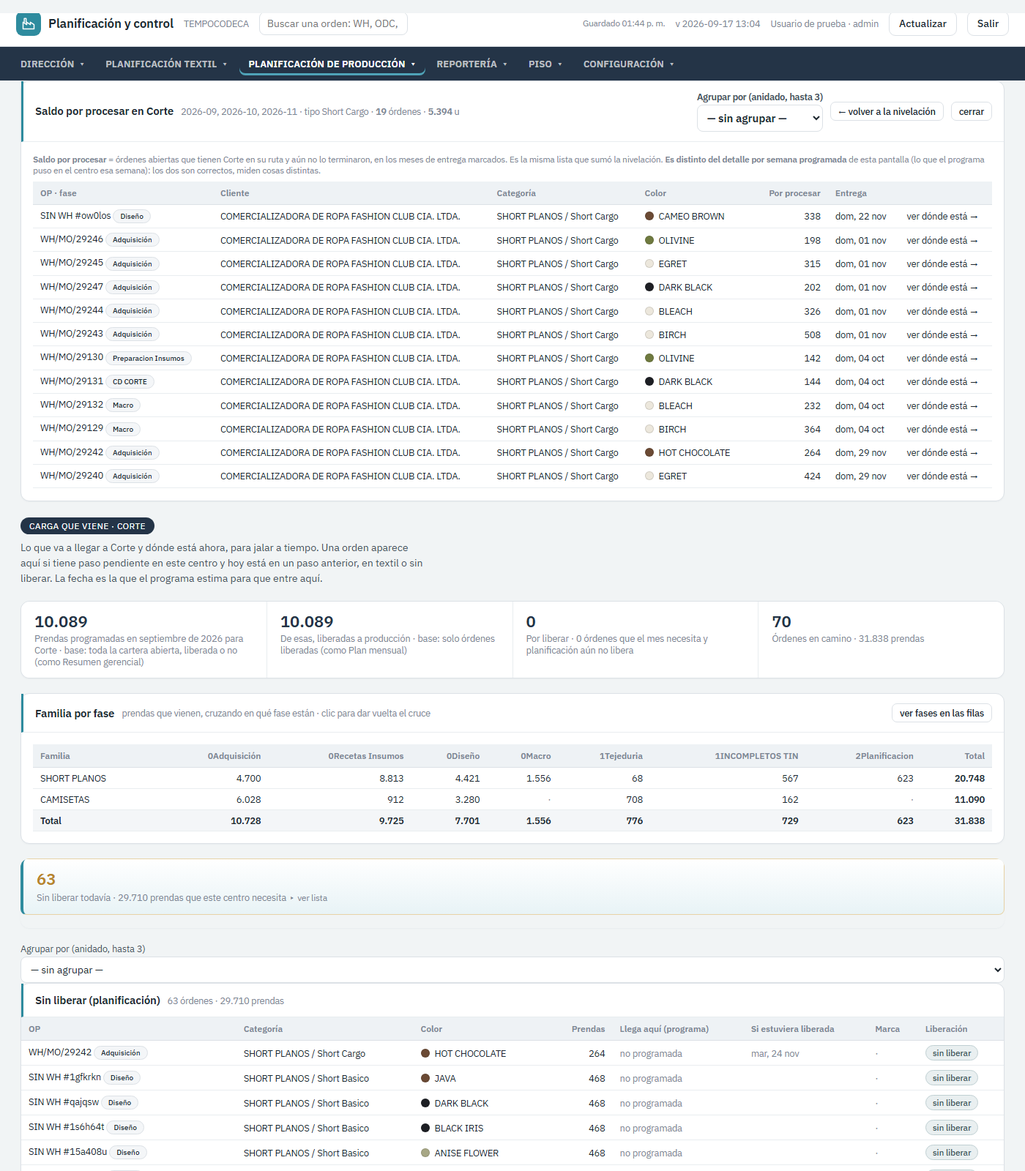
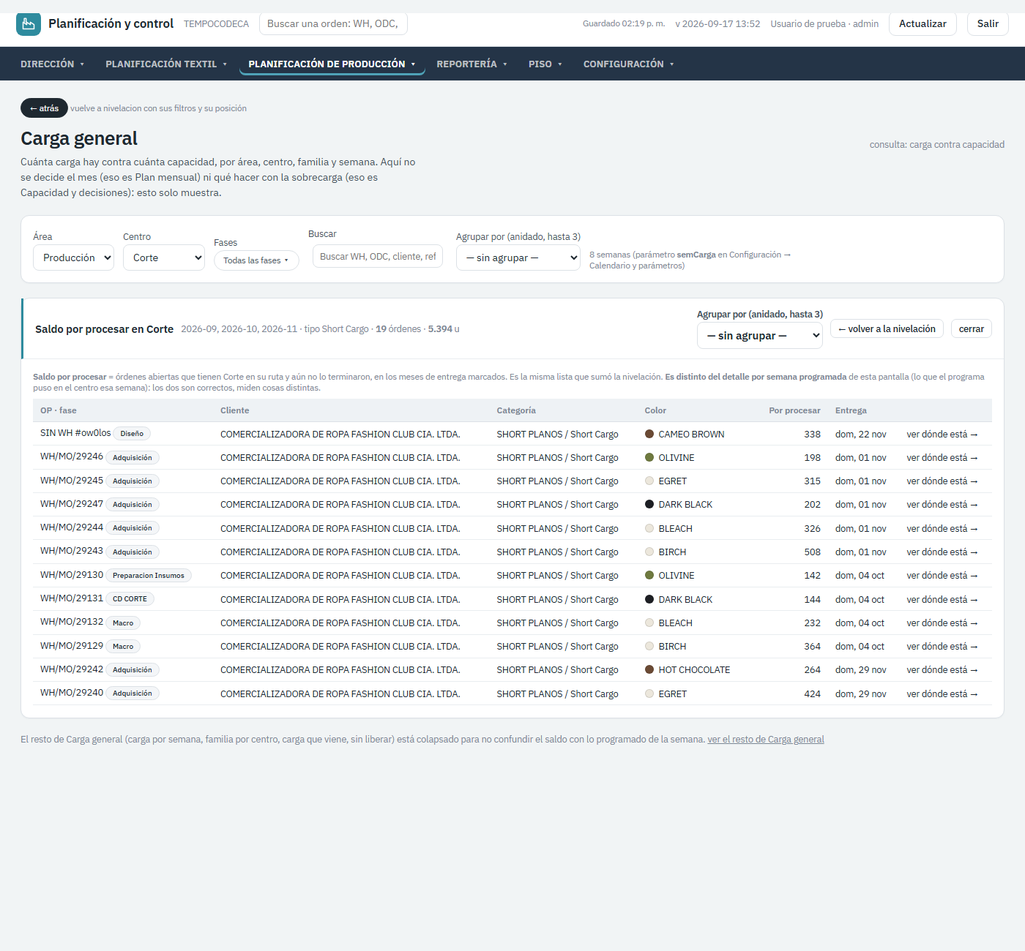
Nivelación · decisiones 17-sep: solo el saldo al llegar a Carga general, Maquila por fase, por días sin capacidad, todas las áreas conectadas
- Carga general desde la nivelación muestra solo «Saldo por procesar en <área>» + «← volver»; el resto colapsado con
  «ver el resto de Carga general».
- PROC_NIVEL gana Maquila por fase (columna «nivelación» de la tabla 1); recursoFijo ya no define el saldo. Sin fases
  marcadas = «sin fases marcadas · dato faltante».
- Centros «por días» (centroPorDias): saldo y tabla, sin cuadrito, y qué haría falta. Todas las demás áreas con cuadrito.
- Probado que al marcar fases de Tela y Maquila los recuadros calculan. SUPABASE_BORDADO_UNICO_PASO.sql (solo lectura).
Harness 2.351 checks, 0 errores.

diff --git a/index.html b/index.html
@@ -706,7 +706,7 @@ async function _save(){
 }
 
 /* ---------- versión cargada vs publicada: nunca mirar números de una copia vieja sin saberlo ---------- */
-const APP_BUILD='2026-09-17 13:52';
+const APP_BUILD='2026-09-17 14:21';
 function verBotonesAdmin(){const ok=puede('config');['btn-respaldo','btn-restaurar'].forEach(id=>{const b=document.getElementById(id);if(b)b.style.display=ok?'':'none'})}
 function verVersion(){const e=document.getElementById('version');if(e)e.textContent='v '+APP_BUILD}
 async function revisarVersion(){try{const r=await fetch(location.pathname+'?nocache='+Date.now(),{cache:'no-store'});if(!r.ok)return;const t=await r.text();const m=t.match(/APP_BUILD=\x27([^\x27]+)\x27/);if(!m)return;
@@ -5650,7 +5650,8 @@ const PROC_NIVEL=[
   {id:'tela',    n:'Tela por entregar', porFase:true,  centro:null,      area:'tej', unidad:'unidades'},
   {id:'corte',   n:'Corte',             porFase:false, centro:'corte',   area:'pro', unidad:'minutos'},
   {id:'confeccion',n:'Confección',      porFase:false, centro:'modulos', area:'pro', unidad:'minutos'},
-  {id:'empaque', n:'Empaque',           porFase:false, centro:'empaque', area:'pro', unidad:'minutos'}];
+  {id:'empaque', n:'Empaque',           porFase:false, centro:'empaque', area:'pro', unidad:'minutos'},
+  {id:'maquila', n:'Maquila (por fase)', porFase:true,  centro:null,      area:'pro', unidad:'unidades'}];   /* decisión 17-sep: la maquila se cuenta por fase; recursoFijo solo sirve para las decisiones */
 function procNivel(id){const p=PROC_NIVEL.find(p=>p.id===id);if(p)return p;
   /* cualquier centro de producción configurado también es un proceso de nivelación (por ruta) */
   const c=CE(id);return (c&&c.area==='pro')?{id,n:c.n,porFase:false,centro:id,area:'pro',unidad:'minutos'}:null}
@@ -6050,10 +6051,11 @@ function nivUIClaveFila(o,por){por=por||NIVUI.filaPor||'familia';if(por==='clien
 function nivUIFilaTxt(por){return (NIVUI_FILAS.find(x=>x[0]===(por||NIVUI.filaPor))||NIVUI_FILAS[0])[1].toLowerCase()}
 const NIVUI_LISTA='nivui';
 /* áreas con el cuadrito conectado; las demás esperan aprobación una por una */
-const NIVUI_CONECTADAS=['corte'];
+/* 17-sep: todas las áreas conectadas; las «por días» (sin capacidad) muestran saldo y órdenes, sin cuadrito */
+function nivUIConectada(a){return !!a&&!a.porDias}
 /* --- las áreas salen de los centros configurados (área pro) en orden de proceso, más Tela y Maquila --- */
 function nivUIAreas(){const pro=S.centros.filter(c=>c.area==='pro'&&c.activo!==false).map(c=>c.id).sort((a,b)=>ordenPaso(a)-ordenPaso(b));
-  return [{id:'tela',n:'Tela',tipo:'tela'}].concat(pro.map(c=>({id:c,n:nCen(c),tipo:'centro'}))).concat([{id:'maquila',n:'Maquila',tipo:'maquila'}])}
+  return [{id:'tela',n:'Tela',tipo:'tela',porFase:true}].concat(pro.map(c=>({id:c,n:nCen(c),tipo:'centro',porDias:centroPorDias(c)}))).concat([{id:'maquila',n:'Maquila',tipo:'maquila',porFase:true}])}
 function nivUIArea(id){return nivUIAreas().find(a=>a.id===id)||null}
 /* meses marcados: al menos uno; por defecto el mes en curso si tiene saldo, si no el primero con saldo */
 function nivUIMesesDisp(){return mesesNivDisp().filter(m=>m!=='sin fecha')}
@@ -6070,9 +6072,7 @@ function nivUIOpciones(k){const set=new Set();S.ordenes.filter(abiertaDe).forEac
 /* el saldo de un área con un filtro cualquiera: la nivelación (con sus filtros de pantalla) y Carga general (con la
    selección que llega por «ver órdenes») llaman EXACTAMENTE a esta función, así que listan lo mismo que se sumó */
 function saldoAreaNiv(areaId,meses,f){const a=nivUIArea(areaId);if(!a)return null;
-  if(a.tipo==='maquila'){const s=saldoProceso('modulos',meses,f);if(!s)return null;
-    const ords=S.ordenes.filter(o=>abiertaDe(o)&&(!f||f(o))&&(!meses||!meses.length||meses.includes(mesEntregaNiv(o)))&&((o.recursoFijo||{}).modulos==='maquila')&&(o.ruta||[]).some(x=>x.centro==='modulos')&&!pasoHecho(o,'modulos'));
-    return {proc:'maquila',ordenes:ords,unid:s.maquila,min:s.minMaquila,sinSAM:[],unidSinSAM:0,maquila:0,minMaquila:0}}
+  /* Tela y Maquila se cuentan POR FASE (columna «nivelación» de la tabla 1); los centros, por ruta */
   return saldoProceso(areaId,meses,f)}
 function nivUISaldo(areaId,meses){return saldoAreaNiv(areaId,meses,nivUIFiltro())}
 /* el filtro que arma una selección (cliente, familia, tipo de producto) — el mismo para las dos pantallas */
@@ -6090,7 +6090,8 @@ function nivUIVolver(){const v=CG.det&&CG.det.volver;if(v){NIVUI.meses=v.meses;N
 function nivUICapacidad(areaId){const a=nivUIArea(areaId);if(!a)return {cap:null,detalle:[],nota:'área desconocida'};
   if(a.tipo==='tela'){const t=capTelaReal();const plan=nivParam('telaPlan','');const cap=(plan===''||plan==null)?(t.suficiente?t.prom:null):+plan;
     return {cap,unidad:'u/día',detalle:[],nota:(plan===''||plan==null)?(t.suficiente?('promedio real de '+t.dias+' días hábiles ('+t.conDato+' con registro)'):('sin avance suficiente: '+t.conDato+' de '+t.dias+' días con registro')):('valor planificado en Configuración')}}
-  if(a.tipo==='maquila')return {cap:null,unidad:'min/día',detalle:[],nota:'la maquila no tiene capacidad propia: sus unidades se escriben en el área que la usa'};
+  if(a.tipo==='maquila')return {cap:null,unidad:'u/día',detalle:[],nota:'la maquila no tiene capacidad propia en la planta: dato faltante (se cuenta por fase; sus unidades entran como «Maquila» en el área que las recibe)'};
+  if(a.porDias)return {cap:null,unidad:'min/día',detalle:[],nota:'por días, sin capacidad: '+nCen(a.id)+' no consume capacidad (columna «Por días» de Configuración → Centros). Para nivelarlo harían falta: minutos por prenda en la hoja de operaciones o un mínimo estimado por categoría, y un recurso con personas, minutos y eficiencia (o una capacidad en unidades por día); hoy solo tiene un plazo de espera'};
   const d=hoy();const recs=S.recursos.filter(r=>r.activa&&r.centro===a.id&&r.id!=='maquila');
   const detalle=recs.map(r=>{const t=(S.turnos||[]).find(x=>x.rec===r.id&&x.d===d);const aj=ajusteRecDia(r,d);
     let pers=(t&&t.pers!=null)?t.pers:(r.pers||0),min=r.min||0,efic=r.efic||0;if(aj){if(aj.pers!=null&&!(t&&t.pers!=null))pers=+aj.pers;if(aj.min!=null)min=+aj.min;if(aj.efic!=null)efic=+aj.efic}
@@ -6111,7 +6112,7 @@ function nivUIDescartar(areaId){delete NIVUI.esc[areaId];render()}
 /* --- el cálculo del área: nivelar() del Paso 1 + las tres filas derivadas (adicionales, maquila escrita, total) --- */
 function nivUICalcular(areaId){const a=nivUIArea(areaId);if(!a)return null;const meses=nivUIMeses();
   const s=nivUISaldo(areaId,meses);const cap=nivUICapacidad(areaId);const e=nivUIEsc(areaId);const sam=samPonderado(s);
-  const enMin=a.tipo!=='tela';                           // tela se mide en unidades; planta en minutos
+  const enMin=!a.porFase;                                 // tela y maquila (por fase) se miden en unidades; la planta en minutos
   const saldo=s?(enMin?s.min:s.unid):null;
   /* maquila: lo escrito manda; si no hay nada escrito, la suma de órdenes marcadas a maquila (del saldo) */
   const maqU=(e.maquilaU!==''&&e.maquilaU!=null)?+e.maquilaU:(s&&s.maquila?s.maquila:0);
@@ -6123,16 +6124,16 @@ function nivUICalcular(areaId){const a=nivUIArea(areaId);if(!a)return null;const
   const total=(planta==null)?null:planta+(maqMin==null?0:maqMin);
   const deficit=(saldo==null||total==null)?null:Math.max(0,saldo-total);
   const sobra=(saldo==null||total==null)?null:Math.max(0,total-saldo);
-  const sinFases=a.tipo==='tela'&&!fasesDeProcNivel('tela').length;
+  const sinFases=!!(a.porFase&&!fasesDeProcNivel(a.id).length);
   const estado=(deficit==null||sinFases)?'faltante':(deficit>0?'deficit':((c.holgura!=null&&c.holgura<=prm('colchonDias',3))?'riesgo':'ok'));
   return {area:a,meses,saldo:s,sam,enMin,cap,esc:e,calc:c,adic,diasTot,plantaMin:planta,maqU,maqMin,totalMin:total,deficitMin:deficit,sobraMin:sobra,estado,
-    falta:c.falta.slice().concat(sam==null&&enMin&&s&&s.unid>0?['SAM ponderado (saldo sin minutos)']:[]).concat(a.tipo==='tela'&&!fasesDeProcNivel('tela').length?['fases de Tela en la tabla 1 (columna «nivelación» vacía: el saldo de tela no se puede contar)']:[]),
-    sinFasesTela:a.tipo==='tela'&&!fasesDeProcNivel('tela').length}}
+    falta:c.falta.slice().concat(sam==null&&enMin&&s&&s.unid>0?['SAM ponderado (saldo sin minutos)']:[]).concat(a.porFase&&!fasesDeProcNivel(a.id).length?['fases de '+a.n+' en la tabla 1 (columna «nivelación» vacía: el saldo no se puede contar)']:[]),
+    sinFasesTela:!!(a.porFase&&!fasesDeProcNivel(a.id).length),porDias:!!a.porDias}}
 /* --- lo que NO entra: las órdenes que quedan fuera del total del período, de la más lejana a la más cercana --- */
 function nivUINoEntra(r){if(!r||r.deficitMin==null||r.deficitMin<=0||!r.saldo)return [];
-  const c=r.area.tipo==='centro'?r.area.id:'modulos';
+  const c=r.area.tipo==='centro'?r.area.id:'modulos';const porFase=r.area.porFase;
   const ords=r.saldo.ordenes.slice().sort((a,b)=>String(fechaMetaDe(b)||'')<String(fechaMetaDe(a)||'')?-1:1);
-  const out=[];let acum=0;for(const o of ords){if(acum>=r.deficitMin)break;const u=r.area.tipo==='tela'?(+o.cant||0):pendCentroUnid(o,c);const m=r.enMin?u*(samOrdenCentro(o,c)||0):u;out.push({o,u,min:m});acum+=m}
+  const out=[];let acum=0;for(const o of ords){if(acum>=r.deficitMin)break;const u=porFase?(+o.cant||0):pendCentroUnid(o,c);const m=r.enMin?u*(samOrdenCentro(o,c)||0):u;out.push({o,u,min:m});acum+=m}
   return out}
 /* --- guardar escenario: inicio/compromiso por el camino del Paso 1, adicionales y maquila en escenarios[] --- */
 function nivUIGuardar(areaId){if(!puede('programa')){alert('Solo planificación guarda escenarios.');return}
@@ -6156,19 +6157,19 @@ function nivUIFiltrosHTML(){const sel=(k,lab)=>`<div><label>${lab}</label><selec
   return sel('cliente','Cliente')+sel('familia','Familia')}
 function nivUIRecuadrosHTML(){const meses=nivUIMeses();
   return `<div style="display:flex;flex-wrap:wrap;gap:8px;margin:10px 0 14px">${nivUIAreas().map(a=>{const r=nivUICalcular(a.id);const on=NIVUI.area===a.id;
-    const saldo=r&&r.saldo?((r.sinFasesTela)?'<span class="tag t-alerta" style="font-size:9px;padding:0 4px">sin fases marcadas</span>':(r.enMin?num(aUnid(r.saldo.min,r.sam)||0,0)+' u':num(r.saldo.unid,0)+' u')+(r.saldo.sinSAM&&r.saldo.sinSAM.length?' <span class="tag t-alerta" style="font-size:9px;padding:0 4px" title="'+r.saldo.sinSAM.length+' órdenes sin SAM no suman">+'+num(r.saldo.unidSinSAM,0)+' u sin SAM</span>':'')):'—';
-    const fin=(NIVUI_CONECTADAS.includes(a.id)&&r&&r.calc.fin)?fmtDia(r.calc.fin):'—';
+    const saldo=r&&r.saldo?((r.sinFasesTela)?'<span class="tag t-alerta" style="font-size:9px;padding:0 4px" title="marca en Configuración → Órdenes y materiales → tabla 1, columna nivelación, qué fases cuentan">sin fases marcadas · dato faltante</span>':(r.enMin?num(aUnid(r.saldo.min,r.sam)||0,0)+' u':num(r.saldo.unid,0)+' u')+(r.saldo.sinSAM&&r.saldo.sinSAM.length?' <span class="tag t-alerta" style="font-size:9px;padding:0 4px" title="'+r.saldo.sinSAM.length+' órdenes sin SAM no suman">+'+num(r.saldo.unidSinSAM,0)+' u sin SAM</span>':'')):'—';
+    const fin=(nivUIConectada(a)&&r&&r.calc.fin)?fmtDia(r.calc.fin):'—';
     return `<div onclick="NIVUI.area='${a.id}';NIVUI.celda=null;NIVUI.noEntra=false;render()" style="cursor:pointer;border:2px solid ${on?'var(--t-primary,var(--ink))':'var(--rule)'};border-radius:6px;padding:6px 10px;min-width:118px;background:${on?'var(--t-accent-soft,var(--field))':'var(--card)'}">
       <div style="font-weight:600;font-size:13px">${esc(a.n)}</div>
       <div style="font-size:12px">saldo <b>${saldo}</b></div>
       <div style="font-size:11px" class="mut">fin ${esc(fin)}</div>
-      <div>${NIVUI_CONECTADAS.includes(a.id)?nivUIEstadoHTML(r?r.estado:'faltante',true):'<span class="mut" style="font-size:11px">pendiente de conectar</span>'}</div></div>`}).join('')}</div>`}
+      <div>${a.porDias?'<span class="mut" style="font-size:11px" title="no consume capacidad: no se nivela por capacidad">por días, sin capacidad</span>':nivUIEstadoHTML(r?r.estado:'faltante',true)}</div></div>`}).join('')}</div>`}
 /* tabla FAMILIA × mes (unidades del saldo): para nivelar se mira el tipo de producto, no las órdenes una por una.
    Las filas se pueden agrupar por familia (por defecto), tipo de producto o cliente; el cálculo no cambia.
    Clic en una celda → debajo, ESA fila y ese mes: primero por tipo de producto con sus unidades, y ahí sí las
    órdenes con foto/WH/fase (filasGRP + whCell). Las WH quedan en el último nivel. */
 function nivUIOrdenesSaldo(r){return r.saldo.ordenes.concat(r.saldo.sinSAM||[]).filter((o,i,arr)=>arr.indexOf(o)===i)}
-function nivUIUnidDe(r){const c=r.area.tipo==='centro'?r.area.id:'modulos';return o=>r.area.tipo==='tela'?(+o.cant||0):pendCentroUnid(o,c)}
+function nivUIUnidDe(r){const c=r.area.tipo==='centro'?r.area.id:'modulos';return o=>r.area.porFase?(+o.cant||0):pendCentroUnid(o,c)}
 function nivUITablaHTML(r){if(!r||!r.saldo)return '';const meses=r.meses;const uDe=nivUIUnidDe(r);const por=NIVUI.filaPor||'familia';
   const ords=nivUIOrdenesSaldo(r);
   const m={};ords.forEach(o=>{const f=nivUIClaveFila(o,por);const mes=mesEntregaNiv(o);m[f]=m[f]||{};m[f][mes]=(m[f][mes]||0)+uDe(o)});
@@ -6240,7 +6241,7 @@ function vNivelacion(el){
     <a class="mut" style="font-size:var(--fs-xs);cursor:pointer;text-decoration:underline" onclick="page='config';CONF.tab='nivel';render()">Configurar</a></div>
    <div class="row" style="align-items:flex-end;gap:14px">${nivUIMesesHTML()}${nivUIFiltrosHTML()}</div>
    ${nivUIRecuadrosHTML()}
-   ${r?nivUITablaHTML(r)+(NIVUI_CONECTADAS.includes(r.area.id)?nivUICuadritoHTML(r):`<div class="panel"><div class="body warn" style="font-size:var(--fs-s)"><b>${esc(r.area.n)} todavía no está conectada a la nivelación.</b> Solo Corte está conectada (17-sep-2026); las demás áreas se conectan una por una después de aprobar Corte. El saldo de arriba sí es real (mismo motor).</div></div>`):'<div class="panel"><div class="empty">Sin áreas configuradas.</div></div>'}`}
+   ${r?nivUITablaHTML(r)+(nivUIConectada(r.area)?nivUICuadritoHTML(r):`<div class="panel"><div class="body warn" style="font-size:var(--fs-s)"><b>${esc(r.area.n)}: por días, sin capacidad.</b> Muestra saldo y órdenes, sin cuadrito ni fecha calculada. ${esc(r.cap.nota)}</div></div>`):'<div class="panel"><div class="empty">Sin áreas configuradas.</div></div>'}`}
 
 /* consolidado del ítem de planificación: una fila por sub-área, con la brecha de datos a la vista */
 /* ---------- 2 · ojales y botones: cero confirmado es cero; lo NO confirmado es brecha, no silencio ---------- */
@@ -8036,7 +8037,7 @@ function vPro(el){
     /* la MISMA función que sumó el cuadrito de la nivelación: saldoAreaNiv(área, meses, filtro) */
     const sd=saldoAreaNiv(d.area,d.meses,filtroSelNiv(d))||{ordenes:[],sinSAM:[],unid:0,unidSinSAM:0};
     let base=sd.ordenes.concat(sd.sinSAM||[]).filter((o,i,arr)=>arr.indexOf(o)===i);if(d.ids){const set=new Set(d.ids);base=base.filter(o=>set.has(o.id))}
-    const c=a.tipo==='centro'?a.id:'modulos';const uDe=o=>a.tipo==='tela'?(+o.cant||0):pendCentroUnid(o,c);
+    const c=a.tipo==='centro'?a.id:'modulos';const uDe=o=>a.porFase?(+o.cant||0):pendCentroUnid(o,c);
     const dets=base.filter(o=>faseOkCG(o)&&(!CG.q||matchBusq(o,CG.q,'CG.q')));
     const uTot=base.reduce((x,o)=>x+uDe(o),0);
     const selTxt=[(d.meses||[]).join(', ')||'todos los meses',d.fam?'familia '+d.fam:'',d.hija?'tipo '+d.hija:'',d.cli?'cliente '+d.cli:'',d.txt||''].filter(Boolean).map(esc).join(' · ');
@@ -8054,6 +8055,8 @@ function vPro(el){
      </tbody></table></div></div></div>`}
   const cvCen=CG.centro||(CG.area==='pro'?'':'');
   const cargaViene=(CG.area==='pro'&&cvCen)?`<div style="margin:22px 0 8px"><span style="display:inline-block;background:var(--t-block);color:#fff;padding:4px 12px;border-radius:999px;font-size:var(--fs-xs);letter-spacing:.06em;text-transform:uppercase">Carga que viene · ${esc(nCen(cvCen))}</span></div>${cargaQueVieneHTML([cvCen],nCen(cvCen),P||programar())}`:(CG.area==='pro'?'<p class="mut" style="margin-top:18px">Elige un centro arriba para ver <b>Carga que viene</b>: lo que va a llegar y dónde está ahora.</p>':'');
+  /* llegando desde la nivelación: solo el saldo por procesar; el resto queda colapsado hasta cerrar o pedirlo */
+  if(CG.det&&CG.det.saldo&&!CG.det.verResto){el.innerHTML=cab+bloque3+`<p class="mut" style="font-size:var(--fs-s);margin-top:12px">El resto de Carga general (carga por semana, familia por centro, carga que viene, sin liberar) está colapsado para no confundir el saldo con lo programado de la semana. <a style="cursor:pointer;text-decoration:underline" onclick="CG.det.verResto=true;render()">ver el resto de Carga general</a></p>`;return}
   el.innerHTML=cab+bloque1+bloque2+bloque3+avisoFueraDeBaseHTML('CG.q',ordsF,'el área o centro elegido y el filtro de fases')+cargaViene;
 }
 function togFaseCG(f){togSet(CG,'fases',f)}

diff --git a/test/driver.js b/test/driver.js
@@ -6198,8 +6198,21 @@ async function __run(){try{LISTO=true;}catch(e){}try{__R.prevFuzz=localStorage._
      __check("N3: Tela sin fases marcadas en la tabla 1 es «dato faltante», no «0 u · llega»",fasesDeProcNivel("tela").length>0||(rT.sinFasesTela===true&&rT.estado==="faltante"&&/sin fases marcadas/.test(h)&&rT.falta.some(f=>/fases de Tela/.test(f))),JSON.stringify({fases:fasesDeProcNivel("tela").length,e:rT.estado}));
      __check("N3: un área cuyas órdenes no tienen SAM lo dice en el recuadro (+N u sin SAM)",!(rE.saldo&&rE.saldo.sinSAM.length)||new RegExp("\\+"+num(rE.saldo.unidSinSAM,0).replace(/\./g,"\\.")+" u sin SAM").test(h),JSON.stringify(rE.saldo&&{n:rE.saldo.sinSAM.length,u:rE.saldo.unidSinSAM}));}
     NIVUI.area="modulos";render();const h2=document.getElementById("p-nivelacion").innerHTML;
-    __check("N3: clic en un recuadro muestra SOLO esa área abajo (y las no conectadas lo dicen, sin cuadrito)",/Confección todavía no está conectada/.test(h2)&&!/Nivelación de Corte/.test(h2)&&(h2.match(/Saldo por familia y mes/g)||[]).length===1&&!/se escribe/.test(h2));
+    __check("N3: clic en un recuadro muestra SOLO esa área abajo",/Nivelación de Confección/.test(h2)&&!/Nivelación de Corte/.test(h2)&&(h2.match(/Saldo por familia y mes/g)||[]).length===1);
     NIVUI.area="corte";render();}
+   /* N8 · decisiones 17-sep: Tela y Maquila por fase (al marcar fases el recuadro calcula); Lavado/Plancha por días; todas conectadas */
+   {const tabla=faseMapeo();const bak=tabla.map(r=>r.nivel);
+    __check("N8: la tabla 1 ofrece Maquila en la columna «nivelación» (PROC_NIVEL) y se cuenta por fase",PROC_NIVEL.some(p=>p.id==="maquila"&&p.porFase)&&nivUIArea("maquila").porFase===true&&!/recursoFijo/.test(String(saldoAreaNiv)));
+    const rM0=nivUICalcular("maquila");
+    __check("N8: Maquila sin fases marcadas = «sin fases marcadas · dato faltante», nunca 0",fasesDeProcNivel("maquila").length>0||(rM0.sinFasesTela===true&&rM0.estado==="faltante"&&/sin fases marcadas · dato faltante/.test(document.getElementById("p-nivelacion").innerHTML)));
+    tabla.forEach(r=>{if(/^5.*maquila/i.test(r.fase||""))r.nivel="maquila";if(/^1(Tejeduria|Tintoreria|CD Tintoreria|INCOMPLETOS)/i.test(r.fase||""))r.nivel="tela"});NIVC=null;render();
+    const rM=nivUICalcular("maquila"),rT=nivUICalcular("tela");const h=document.getElementById("p-nivelacion").innerHTML;
+    __check("N8: al marcar las fases 5Maquila…, Maquila calcula su saldo por fase (unidades y órdenes) y deja de decir sin fases",rM.sinFasesTela===false&&rM.saldo.unid>0&&rM.saldo.ordenes.length>0&&!rM.enMin,JSON.stringify({u:rM.saldo.unid,n:rM.saldo.ordenes.length}));
+    __check("N8: al marcar las fases de Tela, el recuadro calcula y deja de decir «sin fases marcadas»",rT.sinFasesTela===false&&rT.saldo.unid>0&&!/Tela<\/div>[^]*?sin fases marcadas/.test(h.slice(0,h.indexOf("Corte</div>"))),JSON.stringify({u:rT.saldo.unid,n:rT.saldo.ordenes.length}));
+    tabla.forEach((r,i)=>{r.nivel=bak[i]});NIVC=null;
+    const pd=nivUIAreas().filter(a=>a.porDias);
+    __check("N8: Lavado y Plancha (por días) siguen en los recuadros marcados «por días, sin capacidad», sin cuadrito, y dicen qué haría falta",pd.length>=1&&pd.some(a=>a.id==="lavado")&&pd.every(a=>centroPorDias(a.id))&&(()=>{NIVUI.area="lavado";render();const h2=document.getElementById("p-nivelacion").innerHTML;NIVUI.area="corte";render();return /por días, sin capacidad/.test(h2)&&!/se escribe/.test(h2)&&/harían falta/.test(h2)&&/Saldo por familia/.test(h2)})(),pd.map(a=>a.id).join(","));
+    __check("N8: las demás áreas quedaron conectadas (Confección con cuadrito)",(()=>{NIVUI.area="modulos";render();const h2=document.getElementById("p-nivelacion").innerHTML;NIVUI.area="corte";render();return /Nivelación de Confección/.test(h2)&&/se escribe/.test(h2)&&!/pendiente de conectar/.test(document.getElementById("p-nivelacion").innerHTML)})());}
    /* N4 · detalle de Corte: tabla cliente × mes y cuadrito */
    {const r=nivUICalcular("corte");const h=()=>document.getElementById("p-nivelacion").innerHTML;
     __check("N4: la tabla tiene una columna por mes marcado y fila de totales",nivUIMeses().every(m=>new RegExp("<th class=\"num\">"+m+"</th>").test(h()))&&/<td>Total<\/td>/.test(h()));
@@ -6221,6 +6234,9 @@ async function __run(){try{LISTO=true;}catch(e){}try{__R.prevFuzz=localStorage._
        __check("N4→CG: abre Carga general en «Saldo por procesar en Corte» con la selección en el encabezado",page==="produccion"&&!!cab&&/Corte/.test(cab[1])&&new RegExp(sel.meses[0]).test(cab[2])&&new RegExp(esc(sel.hija)).test(cab[2]),cab?cab[0].slice(0,160):hc.slice(0,120));
        __check("N4→CG: el número de órdenes y unidades del detalle coincide EXACTO con la fila de la nivelación",!!cab&&+cab[3]===nFila&&+cab[4].replace(/\./g,"")===uFila,JSON.stringify({cg:cab&&[cab[3],cab[4]],fila:[nFila,uFila]}));
        __check("N4→CG: sale de saldoAreaNiv/saldoProceso y lo dice: saldo por procesar, distinto del detalle por semana",/saldoAreaNiv\(/.test(String(vPro))&&/Es distinto del detalle por semana programada/.test(hc)&&/volver a la nivelación/.test(hc)&&/whCell|WH\//.test(hc));
+       __check("N4→CG: al llegar desde la nivelación SOLO se ve el bloque de saldo; el resto queda colapsado con «ver el resto de Carga general»",!/Carga contra capacidad por semana/.test(hc)&&!/Familia por centro/.test(hc)&&!/Carga que viene · /.test(hc)&&/ver el resto de Carga general/.test(hc));
+       CG.det.verResto=true;render();const hc2=document.getElementById("p-produccion").innerHTML;
+       __check("N4→CG: «ver el resto» despliega la pantalla completa sin perder el bloque de saldo",/Carga contra capacidad por semana/.test(hc2)&&/Saldo por procesar en/.test(hc2));
        nivUIVolver();await __p(30);
        __check("N4→CG: «← volver a la nivelación» regresa con área, meses, filtros y celda como estaban",page==="nivelacion"&&JSON.stringify({meses:nivUIMeses(),cliente:NIVUI.cliente,familia:NIVUI.familia,area:NIVUI.area,filaPor:NIVUI.filaPor,celda:NIVUI.celda})===bakNIV&&CG.det===null);}}
      /* cambiar el agrupamiento no cambia el total */

diff --git a/NIVELACION_DECISIONES_17SEP.md b/NIVELACION_DECISIONES_17SEP.md
@@ -1,0 +1,32 @@
+# Nivelación — decisiones del 17-sep y todas las áreas conectadas
+
+**Commit propio.** Motor del Paso 1 intacto (un solo cambio de datos: `PROC_NIVEL` gana la fila Maquila por fase).
+
+1. **Enlace a Carga general.** Al llegar desde la nivelación se ve **solo** el bloque «Saldo por procesar en <área>» con
+   «← volver a la nivelación»; debajo, una línea explica que el resto (carga por semana, familia por centro, carga que
+   viene, sin liberar, detalle por semana) está colapsado para no confundir el saldo con lo programado, con el enlace
+   «ver el resto de Carga general» (`CG.det.verResto`). Cerrar el detalle vuelve a la pantalla completa. Probado.
+2. **Maquila por fase.** `PROC_NIVEL` tiene `maquila` con `porFase:true`: la columna «nivelación» de la tabla 1 ofrece
+   **Maquila (por fase)** y el saldo de Maquila = órdenes abiertas en las fases marcadas (`saldoProceso('maquila')`, igual
+   que Tela), en unidades. `recursoFijo = maquila` **ya no define el saldo**; sigue alimentando la fila «Maquila» del cuadrito
+   de las otras áreas (suma de órdenes marcadas). Sin fases marcadas: «sin fases marcadas · dato faltante», nunca 0.
+   Probado: al marcar las fases `5Maquila…` en la tabla 1 el recuadro calcula. **Las marcas en la tabla 1 las haces tú.**
+3. **Lavado y Plancha.** La regla se aplica a todo centro con la columna «Por días» (`centroPorDias`), no a nombres fijos. **Ojo:
+   en la configuración actual solo Lavado es «por días»; Plancha quedó por capacidad el 16-sep (2 min/prenda confirmado)**, así
+   que Plancha sale con cuadrito como cualquier centro. Si quieres Plancha por días, es un cambio en Configuración → Centros,
+   no de código. Los centros por días se quedan en los recuadros con la
+   etiqueta «por días, sin capacidad»: muestran saldo (con «+N u sin SAM») y la tabla de órdenes por familia, **sin
+   cuadrito ni fecha calculada**, y dicen qué haría falta para nivelarlos: minutos por prenda (hoja de operaciones o
+   mínimo estimado por categoría) y un recurso con personas, minutos y eficiencia —o una capacidad en unidades por día—;
+   hoy solo tienen un plazo de espera. Probado.
+4. **Tela.** Probado que al marcar fases (`1Tejeduria`, `1Tintoreria`, `1CD Tintoreria`, `1INCOMPLETOS TIN` en la prueba) el
+   recuadro calcula y deja de decir «sin fases marcadas». Las marcas reales las pones tú en Configuración.
+5. **Bordado en producción.** No puedo leer producción (RLS); dejo `SUPABASE_BORDADO_UNICO_PASO.sql` (solo SELECT): cuántas
+   abiertas tienen Bordado sin corte/módulos/empaque en la ruta, con unidades, por fase, por mes de Proyecto y por ruta
+   exacta, y cuántas de ellas tienen ruta editada a mano o confirmada. No corrige nada. En el simulador (volcado, meses
+   sep–nov) son 252 de 288 órdenes y 103.930 de 121.470 u.
+6. **Todas las áreas conectadas** con las reglas de arriba: Tela y Maquila por fase (unidades, capacidad de Tela por
+   `capTelaReal`/valor planificado; Maquila sin capacidad propia = dato faltante), centros por ruta (minutos), Lavado y Plancha
+   por días. El recuadro «pendiente de conectar» desapareció.
+
+Harness: **2.351 checks, 0 errores, 0 rojas.**

diff --git a/CLAUDE.md b/CLAUDE.md
@@ -849,7 +849,13 @@ tres filas (días disponibles + adicionales, maquila escrita, total del período
 `saldoProceso(procId,horizonte,filtro)` ganó un filtro opcional y `procNivel(id)` acepta cualquier centro `pro` (por ruta).
 `nivUICapacidad` suma `capDia` de los recursos activos del centro (sin `maquila`) y expone personas/min/eficiencia por
 recurso para «Ver cálculo». Configuración → Nivelación conserva grupos, fases y parámetros y solo enlaza a la pantalla.
-Prueba N0: ninguna función declarada dos veces en `index.html`. Ver `NIVELACION_PANTALLA_CORTE.md`.
+Prueba N0: ninguna función declarada dos veces en `index.html`. **Decisiones 17-sep (todas las áreas conectadas):** Tela y
+**Maquila se cuentan POR FASE** (`PROC_NIVEL` tiene `maquila` porFase; columna «nivelación» de la tabla 1; `recursoFijo`
+solo alimenta la fila Maquila del cuadrito); sin fases marcadas = «sin fases marcadas · dato faltante», nunca 0. Lavado y
+Plancha (`centroPorDias`) quedan «por días, sin capacidad»: saldo y tabla, sin cuadrito (`nivUIConectada`). Al llegar a
+Carga general desde la nivelación solo se ve el bloque de saldo (`CG.det.verResto` despliega el resto). Bordado en
+producción: `SUPABASE_BORDADO_UNICO_PASO.sql` (solo lectura). Ver `NIVELACION_PANTALLA_CORTE.md`,
+`NIVELACION_SALDO_TRES_CORRECCIONES.md` y `NIVELACION_DECISIONES_17SEP.md`.
 
 ## Principio general (decisión de la usuaria, 13-sep-2026) — aplica a TODO lo nuevo
 1. Ningún valor de negocio en el código: todo sale de una configuración visible y editable (tablas y

diff --git a/TRASPASO_TEMPO_PCP.md b/TRASPASO_TEMPO_PCP.md
@@ -209,7 +209,10 @@ resumen por centro compacto; semanas vacías ocultas (15-sep). Estado: septiembr
   parámetros con enlace «Configurar». Meses multiselección, filtros cliente/familia, recuadros por área (centros
   configurados), detalle: tabla cliente × mes y cuadrito de 13 filas (4 se escriben). Motor del Paso 1 intacto.
 - Órdenes de demostración: `esDemo`, `carteraAbiertaCarga()` para el freno; no existen en producción.
-- Ver `NIVELACION_PANTALLA_CORTE.md`.
+- La nivelación NO lista WH: «ver órdenes» abre Carga general → «Saldo por procesar en <área>» (misma función
+  `saldoAreaNiv`), con «← volver a la nivelación»; al llegar así, el resto de Carga general queda colapsado.
+- Tela y Maquila por fase (tabla 1, columna nivelación); Lavado y Plancha por días, sin cuadrito; todas las áreas conectadas.
+- Ver `NIVELACION_PANTALLA_CORTE.md`, `NIVELACION_SALDO_TRES_CORRECCIONES.md`, `NIVELACION_DECISIONES_17SEP.md`.
 
 ### 2.56 Restaurar con respaldo automático y registro unificado de cargas (17-sep)
 - Restaurar: solo administrador, palabra RESTAURAR, respaldo automático descargado Y subido a Storage (bucket privado
